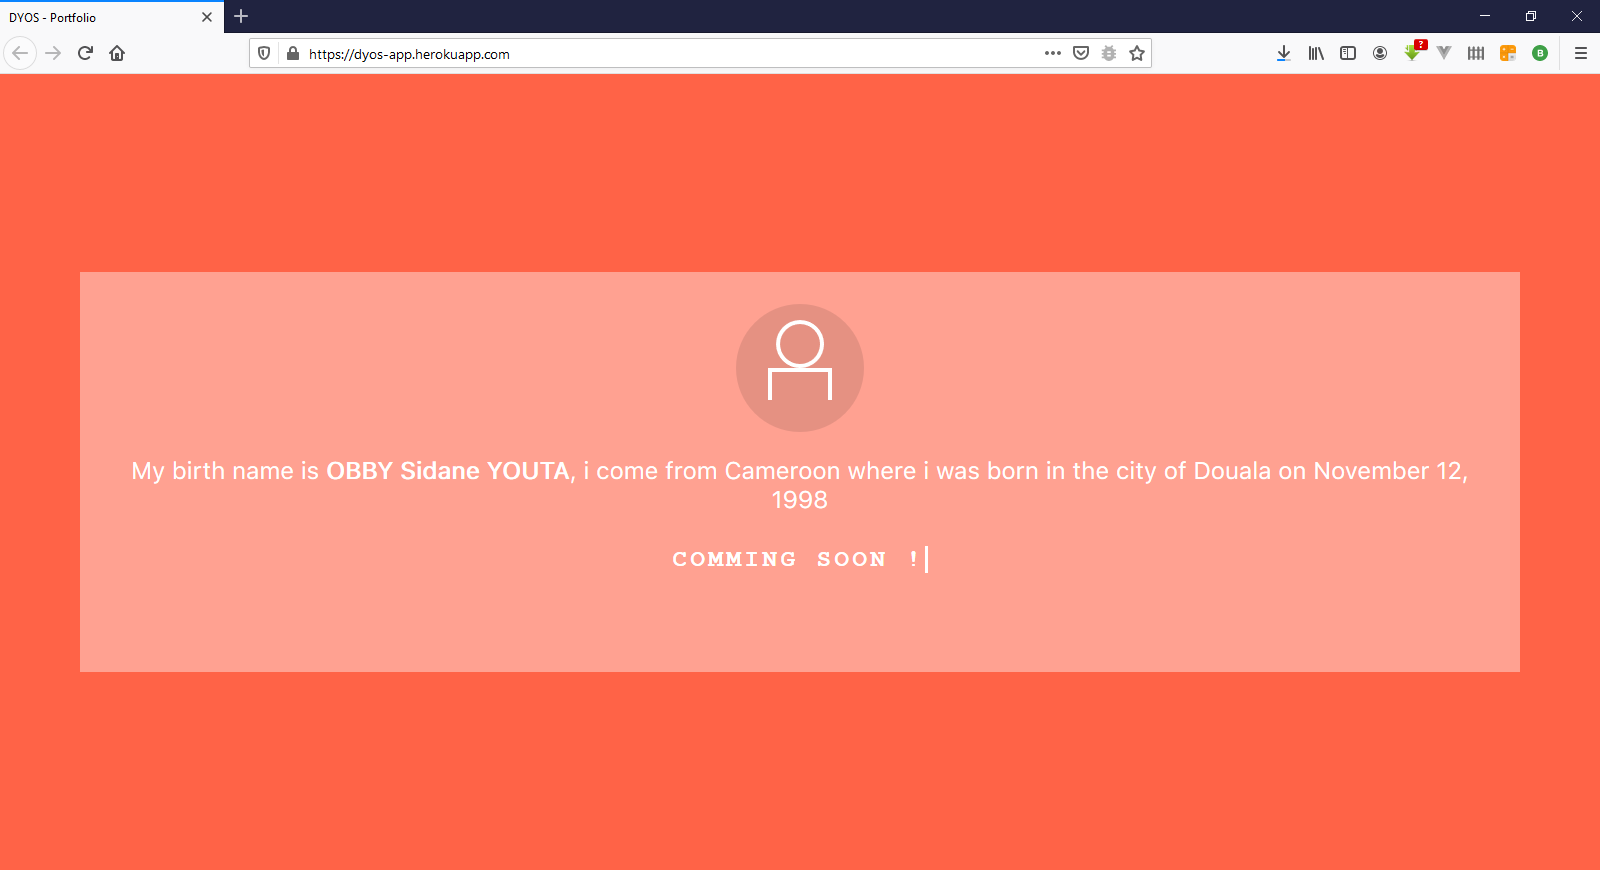
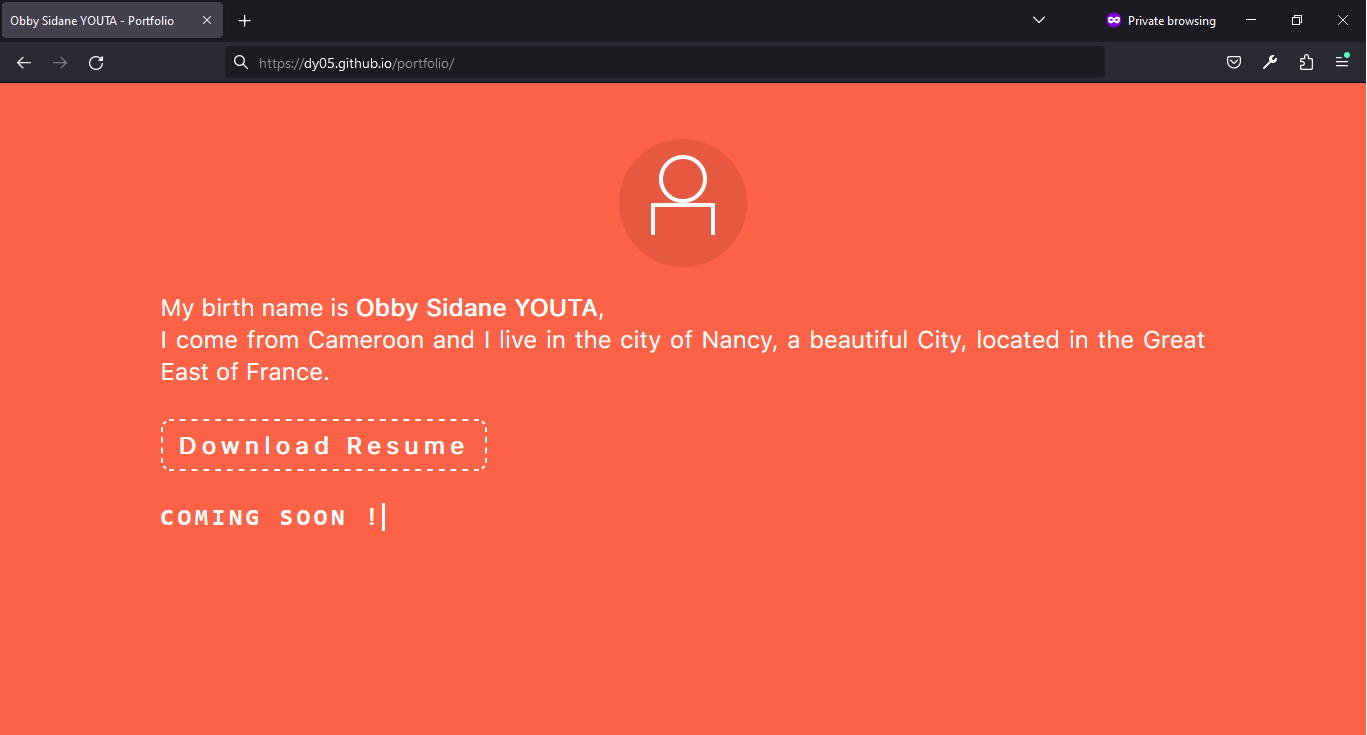
Summer update fix #1

diff --git a/index.html b/index.html
@@ -16,13 +16,11 @@
             overflow-x: hidden;
         }
         section {
-            background-color: rgba(255, 255, 255, 0.4);
             width: max-content;
             max-width: 80vw;
-            max-height: 32rem;
             position: absolute;
-            text-align: center;
-            margin: auto;
+            text-align: justify;
+            margin: 2rem auto;
             left: 0;
             right: 0;
             bottom: 0;
@@ -60,20 +58,29 @@
         div {
             width: max-content;
             max-width: 80vw;
-            height: 2.5rem;
-            margin: auto;
             display: block;
         }
         a {
             color: #fff;
             white-space: nowrap;
             letter-spacing: .2em;
-            font-size: 2rem;
+            font-size: 1.5rem;
             font-weight: 700;
             margin-top: 2rem;
-            margin-bottom: 4rem;
             display: block;
             border-color: tomato;
+        }
+        a.btn {
+            text-decoration: none;
+            border-radius: 10px;
+            padding: 0.5rem 1rem !important;
+            border: 0.125rem #fff dashed;
+            display: inline-block;
+        }
+        a.btn:hover {
+            border-color: transparent;
+            background-color: #fff;
+            color: tomato;            
         }
         h4 {
             color: #fff;
@@ -102,7 +109,10 @@
                 background-color: #fff;
             }
             section {
+                text-align: initial;
                 background-color: tomato;
+                position: initial;
+                padding: 1rem;
             }
             a {
                 font-size: 1.25rem;
@@ -110,7 +120,14 @@
             }
             h4 {
                 letter-spacing: .8em;
+                font-size: 0.75rem;
+            }
+            a.btn {
                 font-size: 1rem;
+                padding: 0.125rem 0.5rem !important;
+            }
+            div {
+                max-width: 90vw !important;
             }
         }
     </style>
@@ -127,8 +144,8 @@
         <br/>
         I come from Cameroon and I live in the city of Nancy, a beautiful City, located in the Great East of France.
         <br>
-        <a href="Youta%20Obby%20Sidane%20-%20CV.pdf">
-            Download CV here !
+        <a class="btn" href="Youta%20Obby%20Sidane%20-%20CV.pdf" target="_blank">
+            Download Resume
         </a>
     </p>
     <div>

diff --git a/README.md b/README.md
@@ -1,8 +1,10 @@
-<p align="center"><img src="https://dyos-app.herokuapp.com/img/screen.png"/></p>
+# Portfolio
+
+<p><img src="./img/screen.png" alt="screen" /></p>
 
 ## Introduction
 
-My github repo for my portfolio
+My GitHub repository for my portfolio.
 
 Available on link [https://dy05.github.io/portfolio/](https://dy05.github.io/portfolio/)
 
